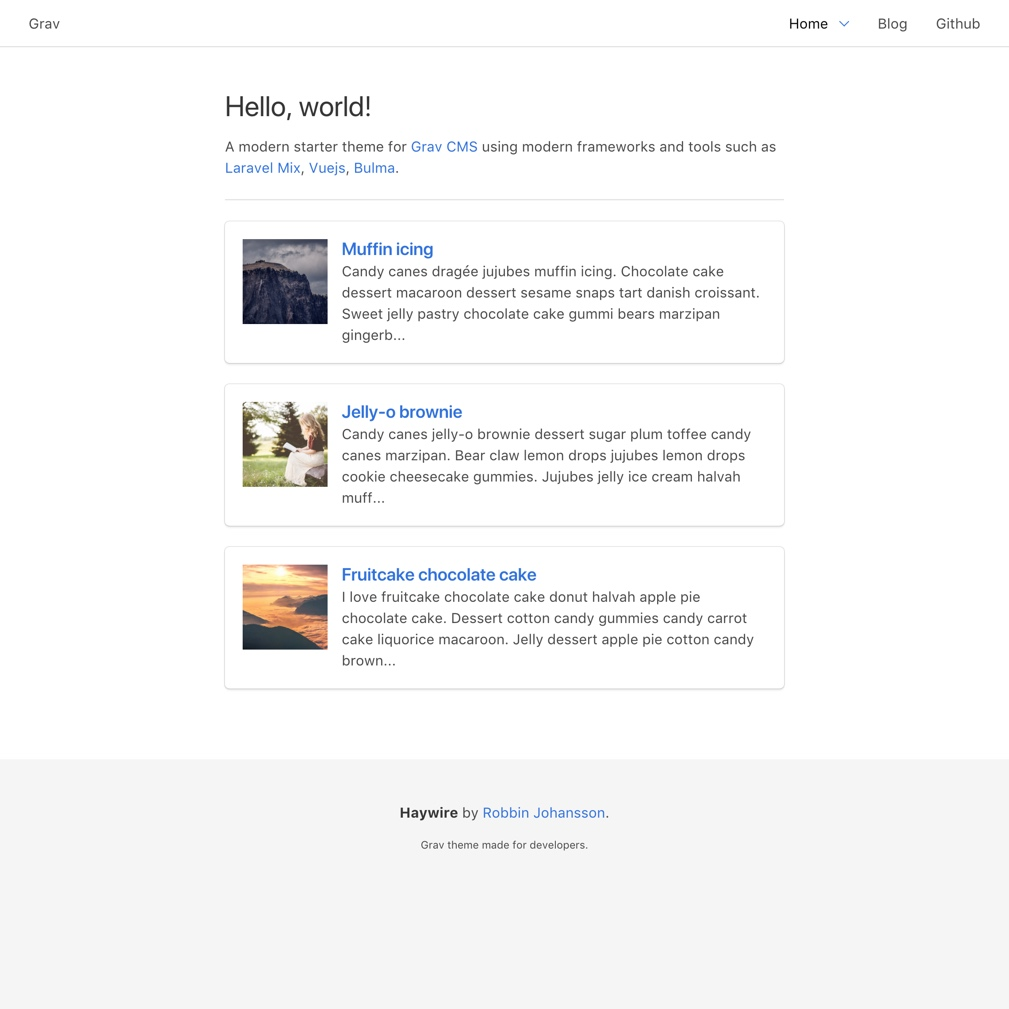
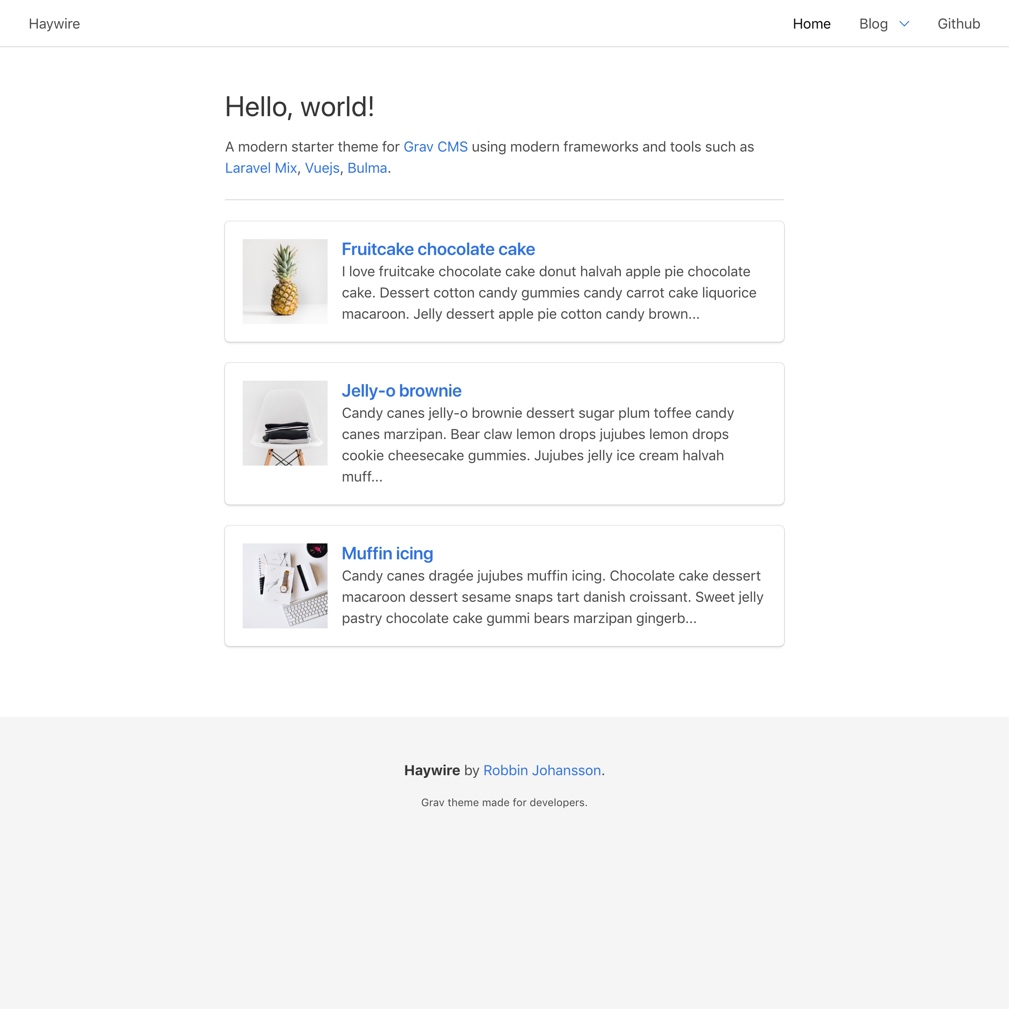
Improve demo pages

diff --git a/_demo/pages/02.blog/01.fruitcake-chocolate-cake/blog.md b/_demo/pages/02.blog/01.fruitcake-chocolate-cake/blog.md
@@ -1,8 +1,10 @@
 ---
 title: 'Fruitcake chocolate cake'
-featured_image: sample_03.jpg
+media_order: demo_01.jpg
+featured_image: demo_01.jpg
 published: true
 publish_date: '05-03-2017 21:38'
+visible: true
 template: item
 ---
 

diff --git a/_demo/pages/02.blog/02.jelly-o-brownie/blog.md b/_demo/pages/02.blog/02.jelly-o-brownie/blog.md
@@ -1,8 +1,10 @@
 ---
 title: 'Jelly-o brownie'
-featured_image: sample_02.jpg
+media_order: demo_02.jpg
+featured_image: demo_02.jpg
 published: true
 publish_date: '05-03-2017 21:28'
+visible: true
 template: item
 ---
 

diff --git a/_demo/pages/02.blog/03.muffin-icing/blog.md b/_demo/pages/02.blog/03.muffin-icing/blog.md
@@ -1,8 +1,10 @@
 ---
 title: 'Muffin icing'
-featured_image: sample_01.jpg
+media_order: demo_03.jpg
+featured_image: demo_03.jpg
 published: true
 publish_date: '05-03-2017 21:31'
+visible: true
 template: item
 ---
 

diff --git a/CHANGELOG.md b/CHANGELOG.md
@@ -6,6 +6,7 @@
 2. [](#improved)
     * Improve page blueprints
     * Improve theme settings
+    * Improve demo pages
     * Update theme screenshot/thumbnail size
 
 # v0.3.5
